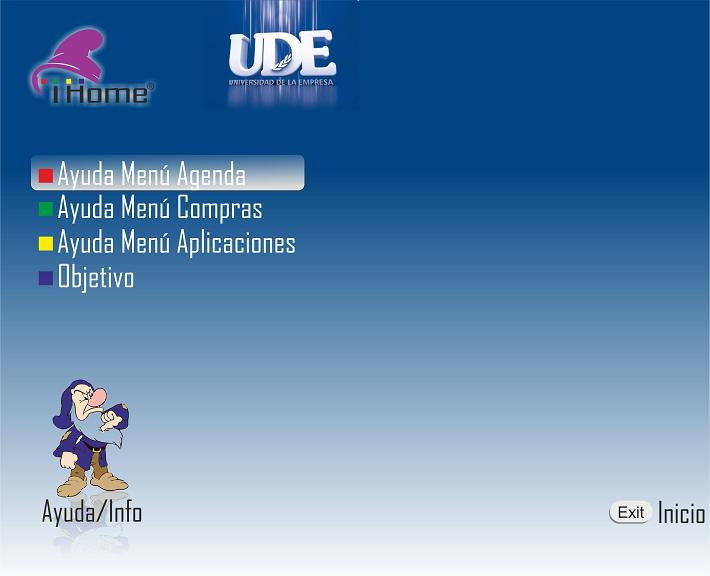
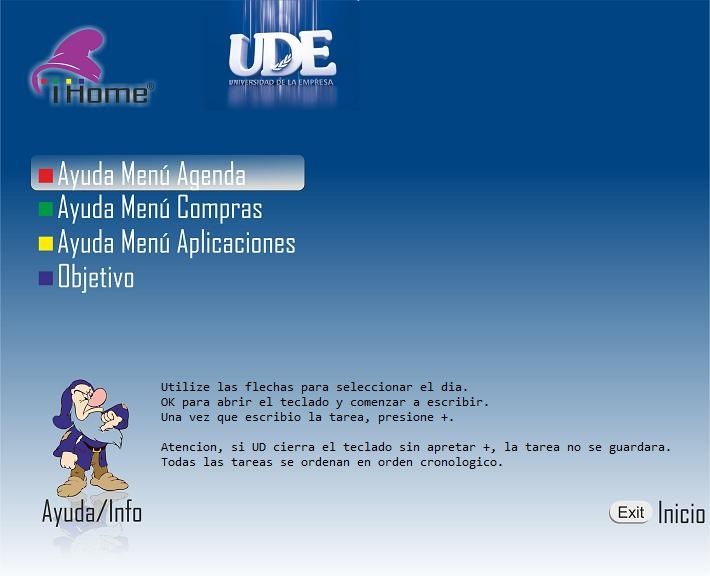
ultimas cosas

Changed region(s): [[0.2169, 0.6562, 0.7127, 0.8125], [0.7127, 0.75, 0.9296, 0.7812]]

diff --git a/src/mainXlet/ContenedorAzul.java b/src/mainXlet/ContenedorAzul.java
@@ -1,5 +1,7 @@
 package mainXlet;
 
+import java.awt.Color;
+import java.awt.Font;
 import java.awt.Graphics;
 import java.awt.Image;
 import java.awt.MediaTracker;
@@ -8,6 +10,7 @@ import java.awt.event.KeyEvent;
 import java.awt.event.KeyListener;
 
 import org.havi.ui.HContainer;
+import org.havi.ui.HStaticText;
 
 @SuppressWarnings("serial")
 
@@ -19,6 +22,7 @@ public class ContenedorAzul extends HContainer implements KeyListener {
 	
 	private Image fondoAplic, fondoAplic1;
 	private static boolean flagImageBlue, flagImageBlue1;
+	
 	
 	public ContenedorAzul() {
 		setFlagImageBlue(false);
@@ -52,6 +56,7 @@ public class ContenedorAzul extends HContainer implements KeyListener {
 			this.repaint();
 			break;
 		case 404:
+		
 			System.out.println("verde");
 			setFlagImageBlue1(true);
 			MediaTracker tracker = new MediaTracker(this);
@@ -70,6 +75,7 @@ public class ContenedorAzul extends HContainer implements KeyListener {
 			this.repaint();
 			break;
 		case 405:
+		
 			System.out.println("verde");
 			setFlagImageBlue1(true);
 			MediaTracker tracker1 = new MediaTracker(this);
@@ -83,6 +89,7 @@ public class ContenedorAzul extends HContainer implements KeyListener {
 			this.repaint();
 			break;
 		case 406:
+
 			System.out.println("Azul");
 			setFlagImageBlue1(true);
 			MediaTracker tracker2 = new MediaTracker(this);
@@ -104,6 +111,7 @@ public class ContenedorAzul extends HContainer implements KeyListener {
 			break;
 		case 27:
 			// exit
+
 			MainXlet.mainPage=true;
 			setFlagImageBlue(false);
 			MainXlet.scene.requestFocus();

diff --git a/src/Gastos/ContenedorGastos.java b/src/Gastos/ContenedorGastos.java
@@ -268,14 +268,10 @@ public class ContenedorGastos extends HContainer implements KeyListener {
 			this.repaint();
 			persistir.guardarGastos(ListaGastos);
 			primeraVez = true;
+			MainXlet.mainPage=true;
 		
 			break;	
 
-		default: {	// do nothing
-			System.out.println("default case ...");
-			System.out.println(tecla);
-			break;
-		}
 						
 		}
 	}

diff --git a/src/Gastos/ContenedorResumenMes.java b/src/Gastos/ContenedorResumenMes.java
@@ -237,13 +237,9 @@ public void paint(Graphics graphics) {
 			this.repaint();
 			MainXlet.mes.setVisible(false);
 			MainXlet.scene.requestFocus();
+			MainXlet.mainPage=true;
 			break;	
 
-		default: {	// do nothing
-			System.out.println("default case ...");
-			System.out.println(tecla);
-			break;
-		}
 						
 		}
 	}

diff --git a/src/Gastos/ContenedorPromedioAnio.java b/src/Gastos/ContenedorPromedioAnio.java
@@ -182,6 +182,7 @@ public class ContenedorPromedioAnio extends HContainer implements KeyListener {
 			MainXlet.promedioAnio.setVisible(false);
 			MainXlet.scene.requestFocus();
 			primeraVez = true;
+			MainXlet.mainPage=true;
 			break;
 
 		default: { // do nothing

diff --git a/src/Gastos/ContenedorResumenAnio.java b/src/Gastos/ContenedorResumenAnio.java
@@ -350,6 +350,7 @@ private void loadForegroundBitmap() {
 			MainXlet.anio.setVisible(false);
 			MainXlet.scene.requestFocus();
 			primeraVez = true;
+			MainXlet.mainPage=true;
 			break;
 
 		default: { // do nothing
